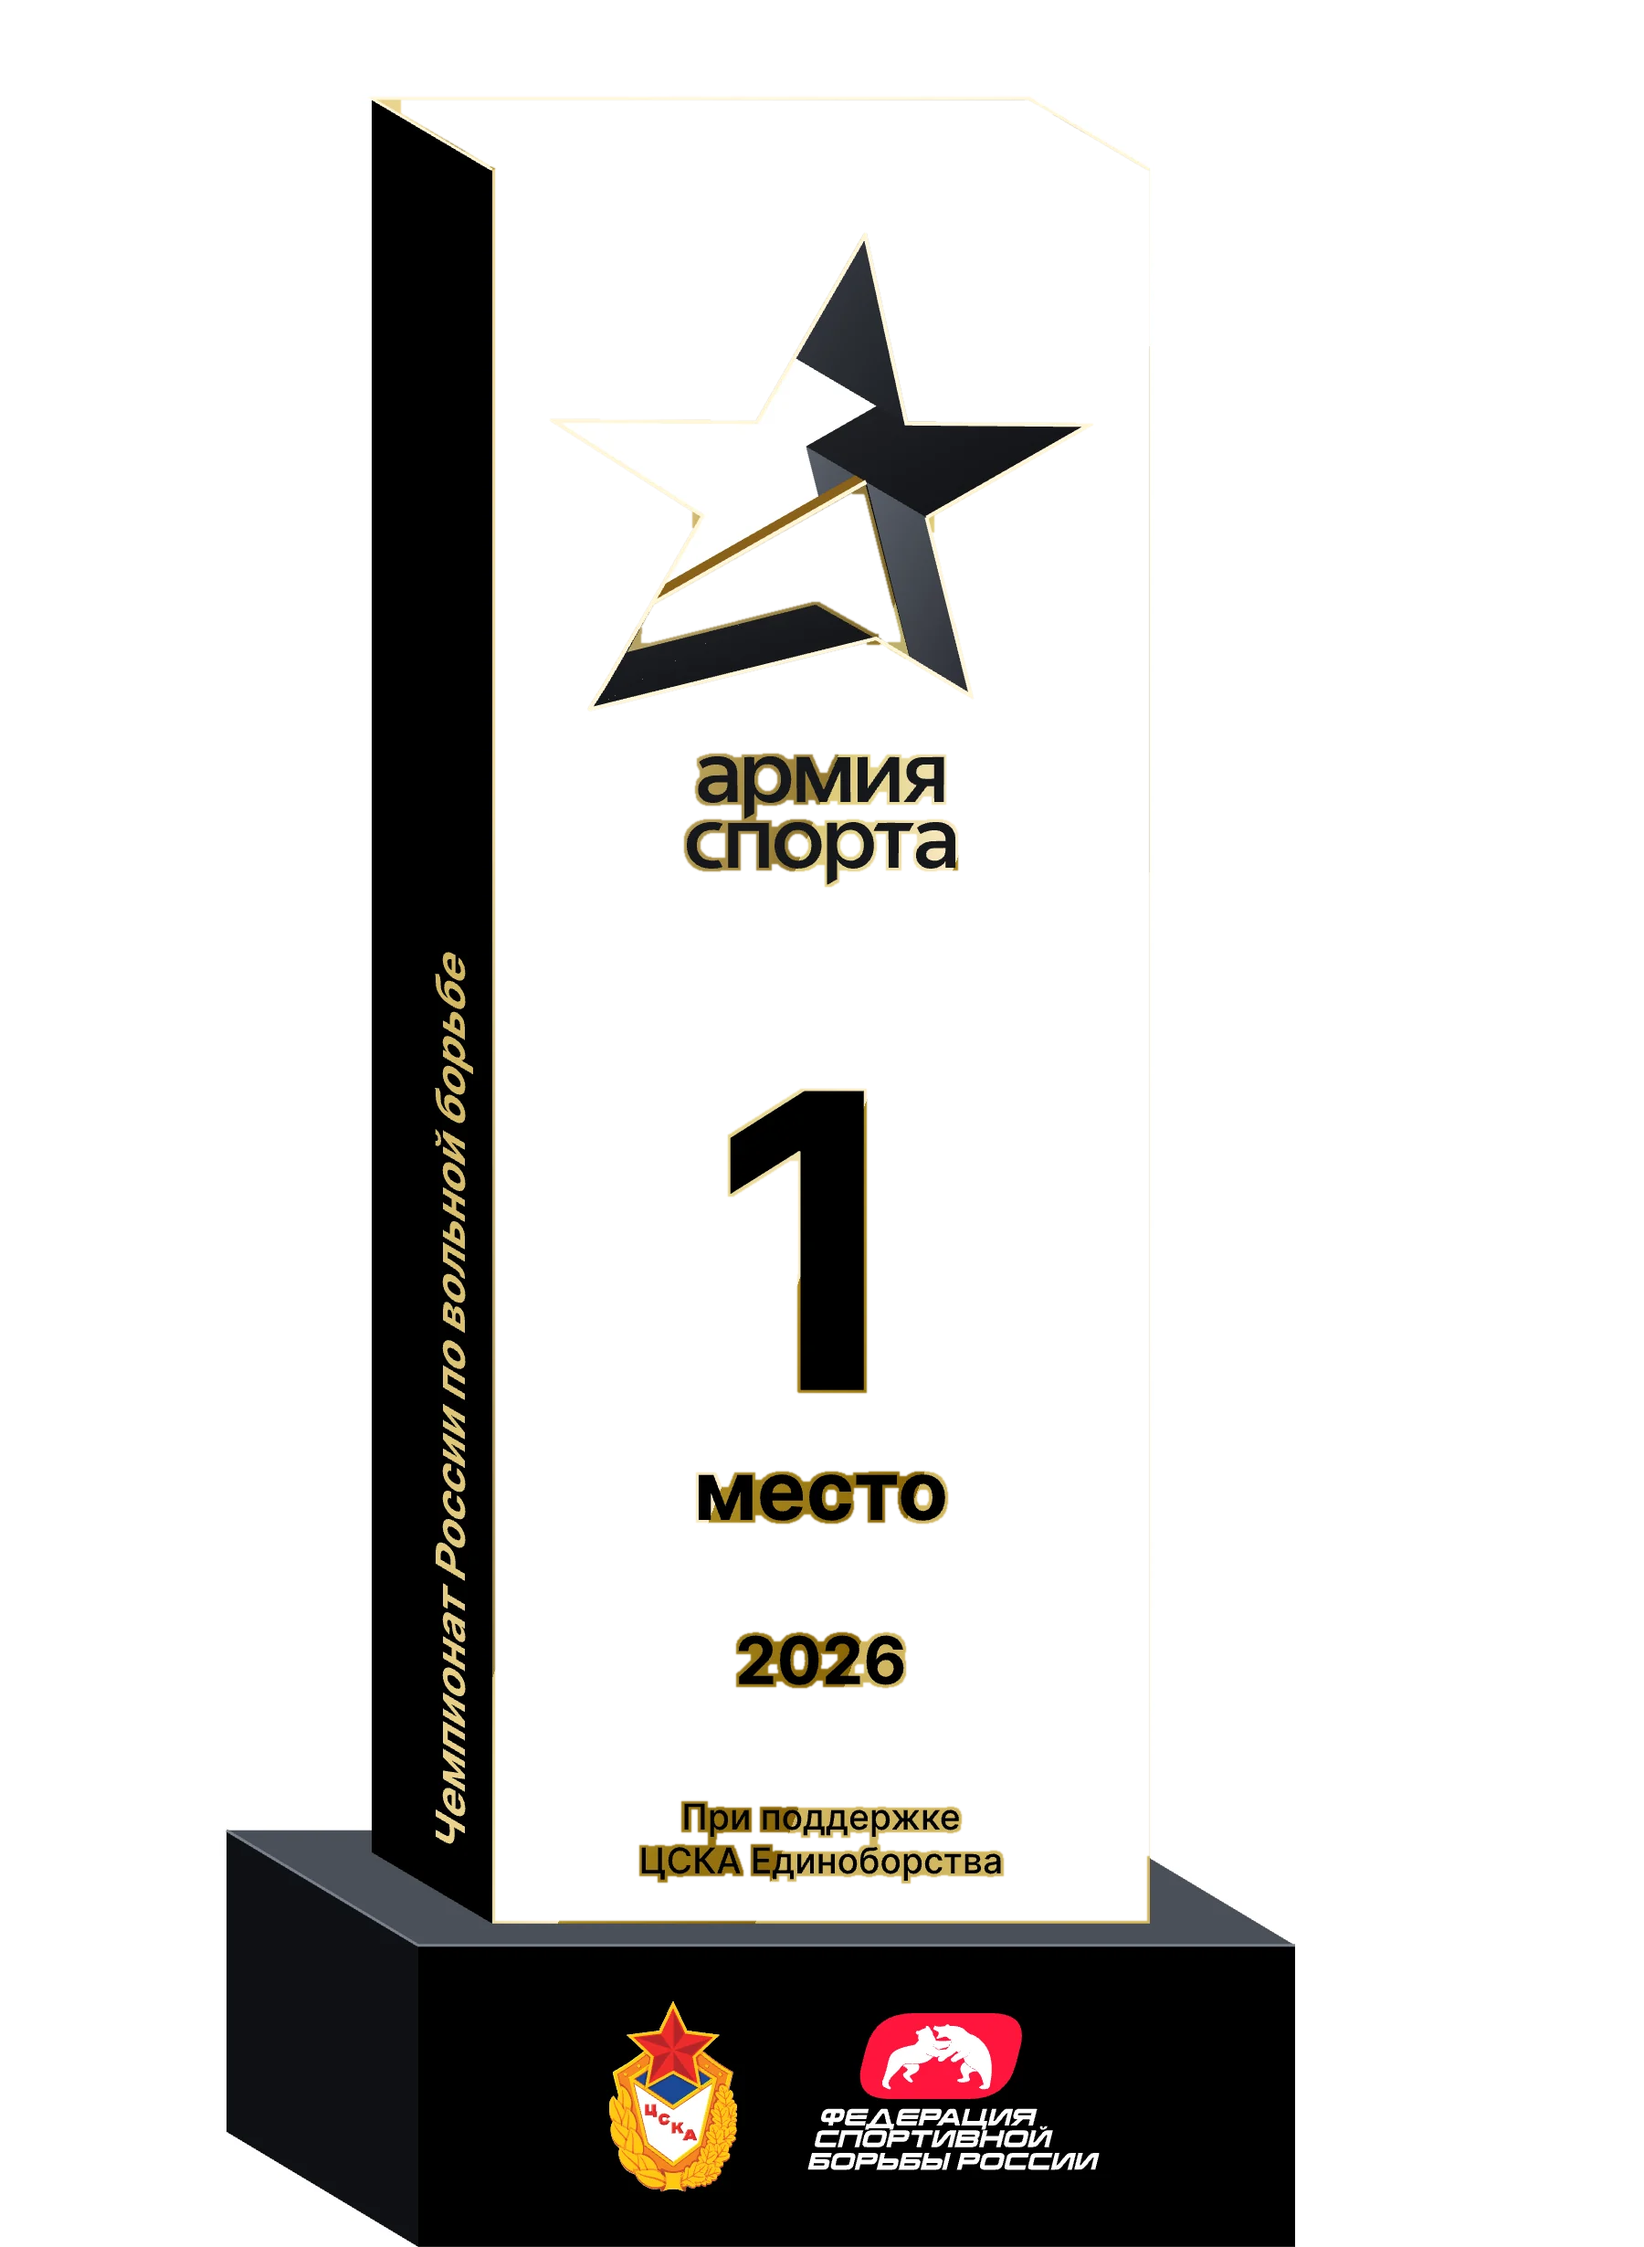
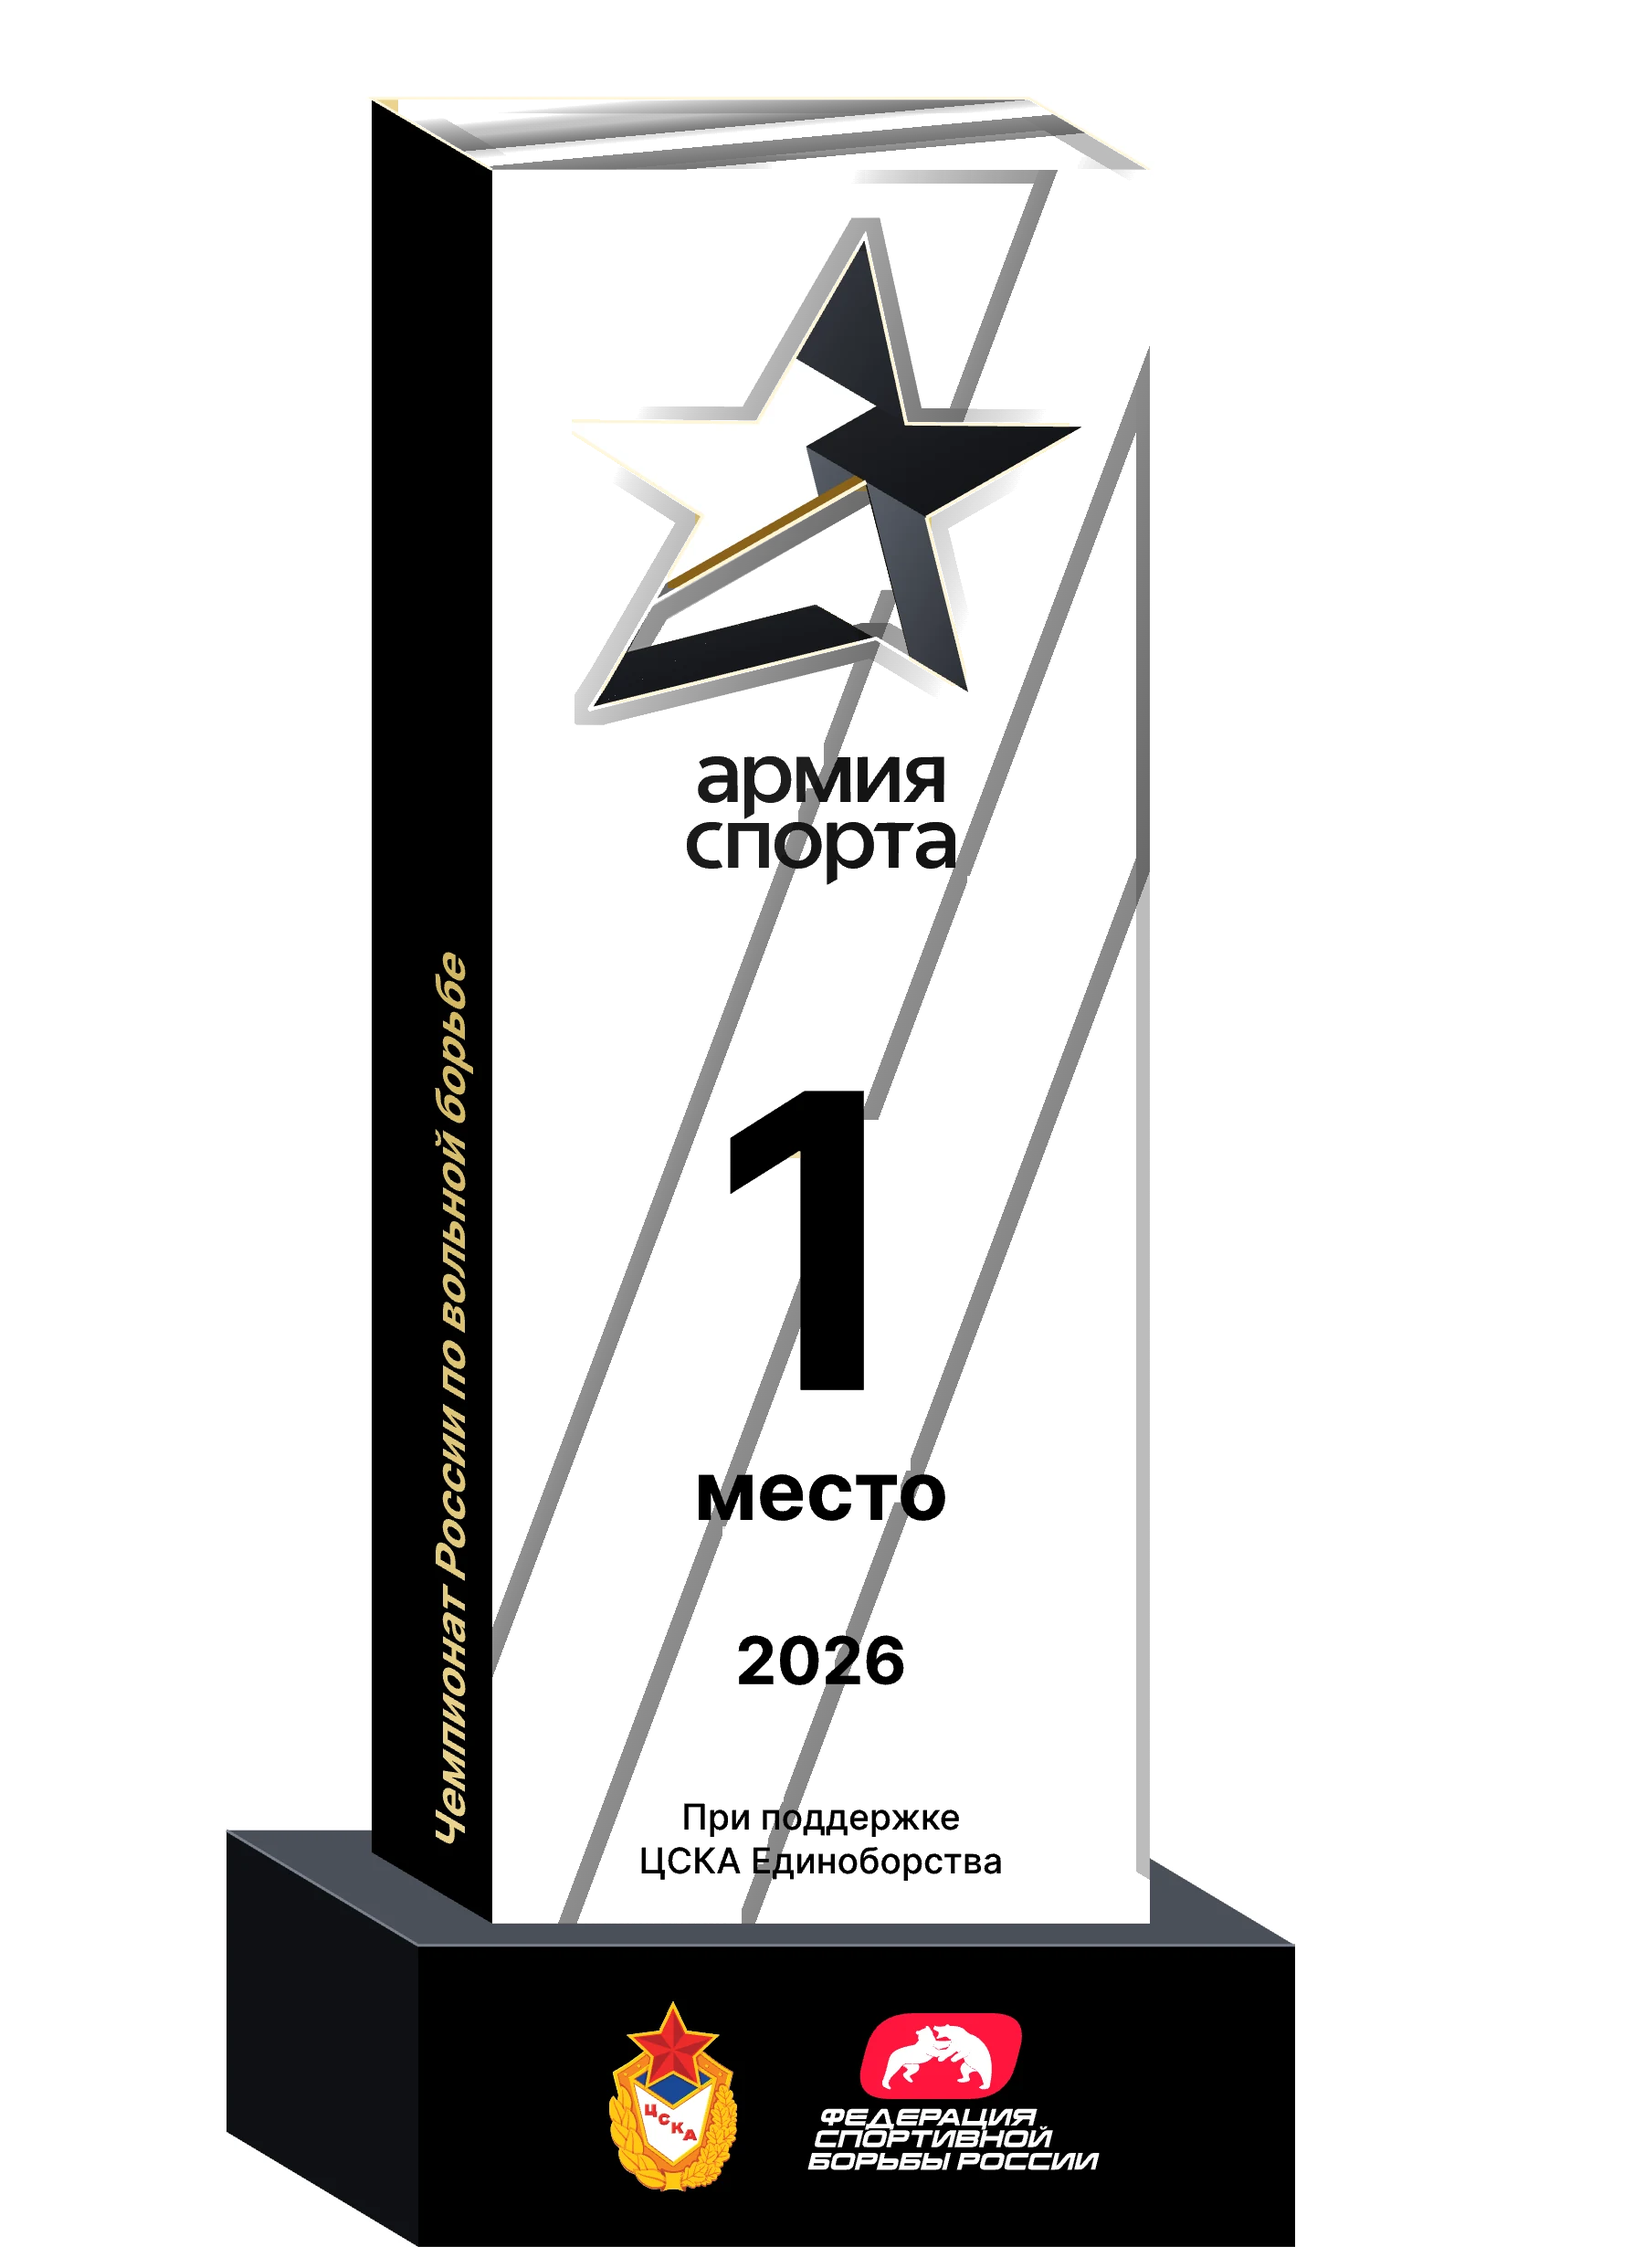
Второй этап: золото наград под текстом — без ореола вокруг букв, мелкий текст плотнее

diff --git a/s2.css b/s2.css
@@ -482,3 +482,7 @@
 .s2-awards figcaption{justify-content:center;max-width:none}
 .s2-awards figcaption{flex-direction:column;align-items:center;gap:8px;text-align:center;text-wrap:balance}
 .s2-awards figcaption span{max-width:20ch;color:var(--mute)}
+/* награды: живое золото под картинкой, буквы лежат сверху без ореола */
+.s2-aw .as-ph img{position:relative;z-index:1}
+.s2-aw .flow{z-index:0}
+.s2-aw .as-ph:not(.ok) .flow{opacity:0}
